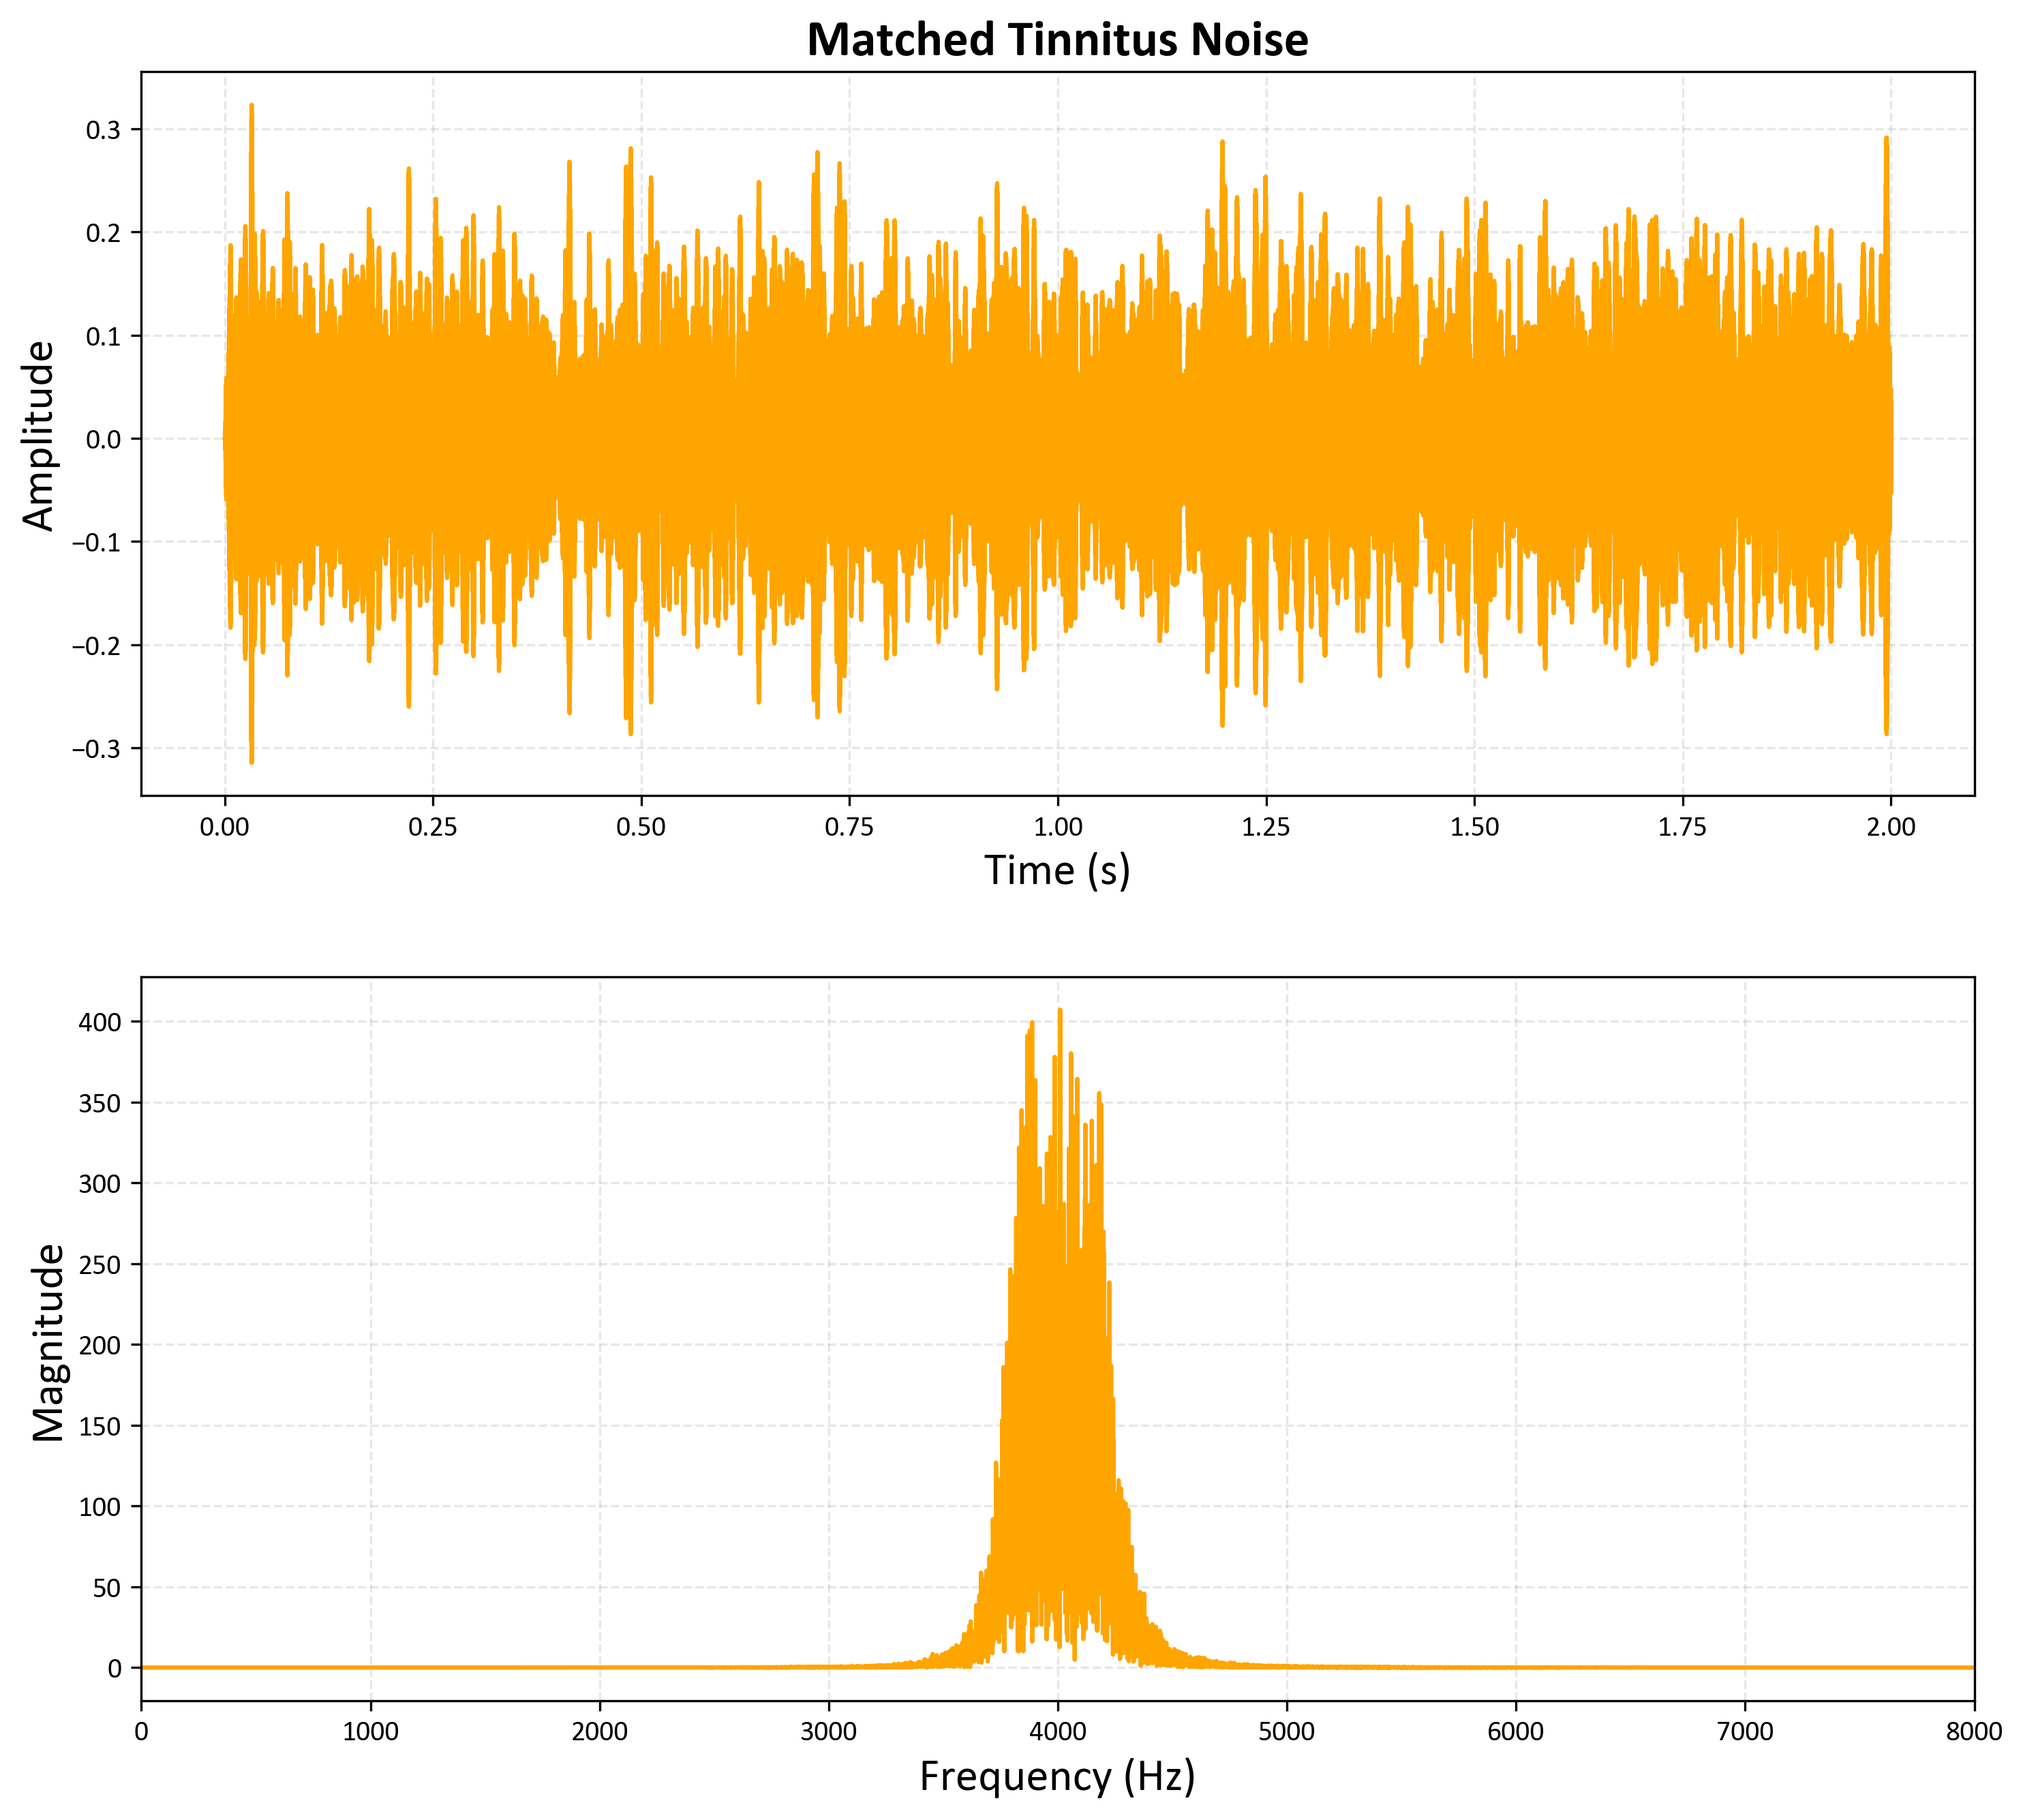
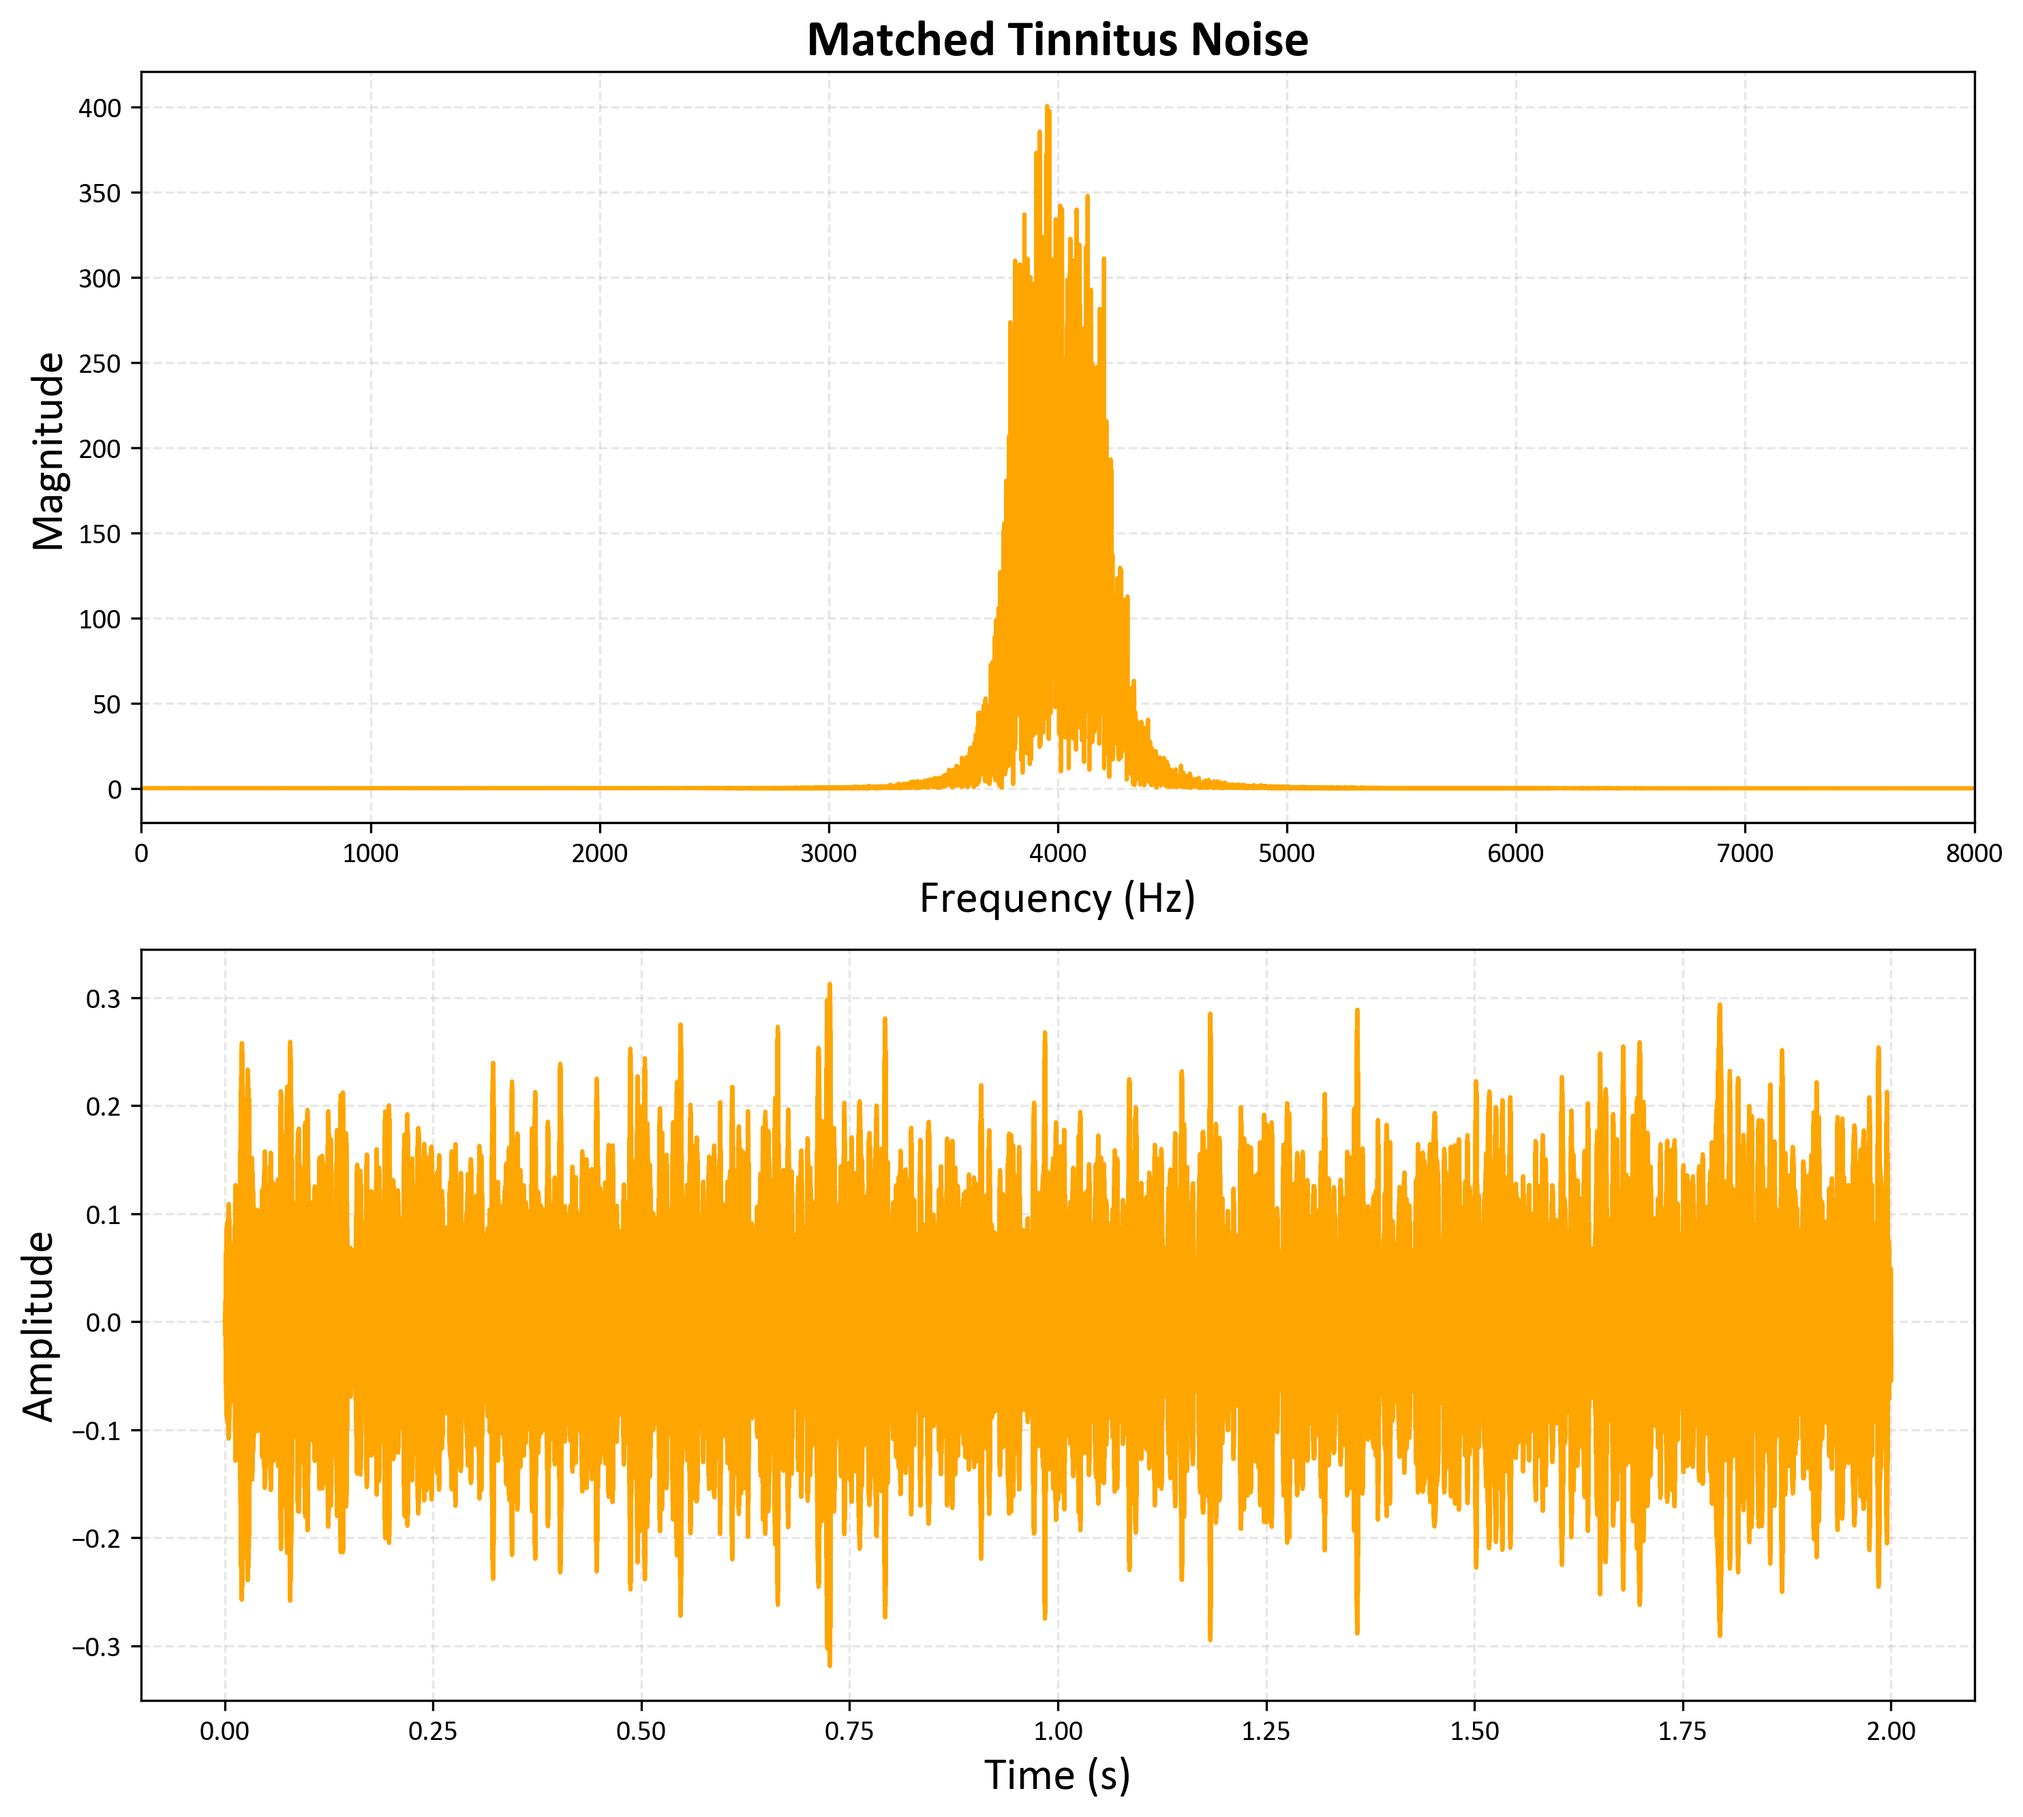
Add files via upload

diff --git a/tinnitus_noise_matching.py b/tinnitus_noise_matching.py
@@ -165,19 +165,19 @@ fft_freq_bandpass, fft_bandpass = compute_fft(matched_noise, sample_rate)
 # Create a 2x1 plot (time-domain and frequency-domain)
 fig, axs = plt.subplots(2, 1, figsize=(10, 9))
 
-# Plot noise in the time domain
-axs[0].plot(time, matched_noise, color='orange')
+# Plot noise in the frequency domain
+axs[0].plot(fft_freq_bandpass, fft_bandpass, color='orange')
 axs[0].set_title('Matched Tinnitus Noise', fontsize=18, fontweight='bold')
-axs[0].set_xlabel('Time (s)', fontsize=16)
-axs[0].set_ylabel('Amplitude', fontsize=16)
+axs[0].set_xlabel('Frequency (Hz)', fontsize=16)
+axs[0].set_ylabel('Magnitude', fontsize=16)
+axs[0].set_xlim([0, matched_freq*2])
 axs[0].grid(True, linestyle='--', alpha=0.3)
 
-# Plot noise in the frequency domain
-axs[1].plot(fft_freq_bandpass, fft_bandpass, color='orange')
-axs[1].set_title(' ', fontsize=18, fontweight='bold')
-axs[1].set_xlabel('Frequency (Hz)', fontsize=16)
-axs[1].set_ylabel('Magnitude', fontsize=16)
-axs[1].set_xlim([0, matched_freq*2])
+# Plot noise in the time domain
+axs[1].plot(time, matched_noise, color='orange')
+axs[1].set_title('', fontsize=18, fontweight='bold')
+axs[1].set_xlabel('Time (s)', fontsize=16)
+axs[1].set_ylabel('Amplitude', fontsize=16)
 axs[1].grid(True, linestyle='--', alpha=0.3)
 
 # Adjust layout
